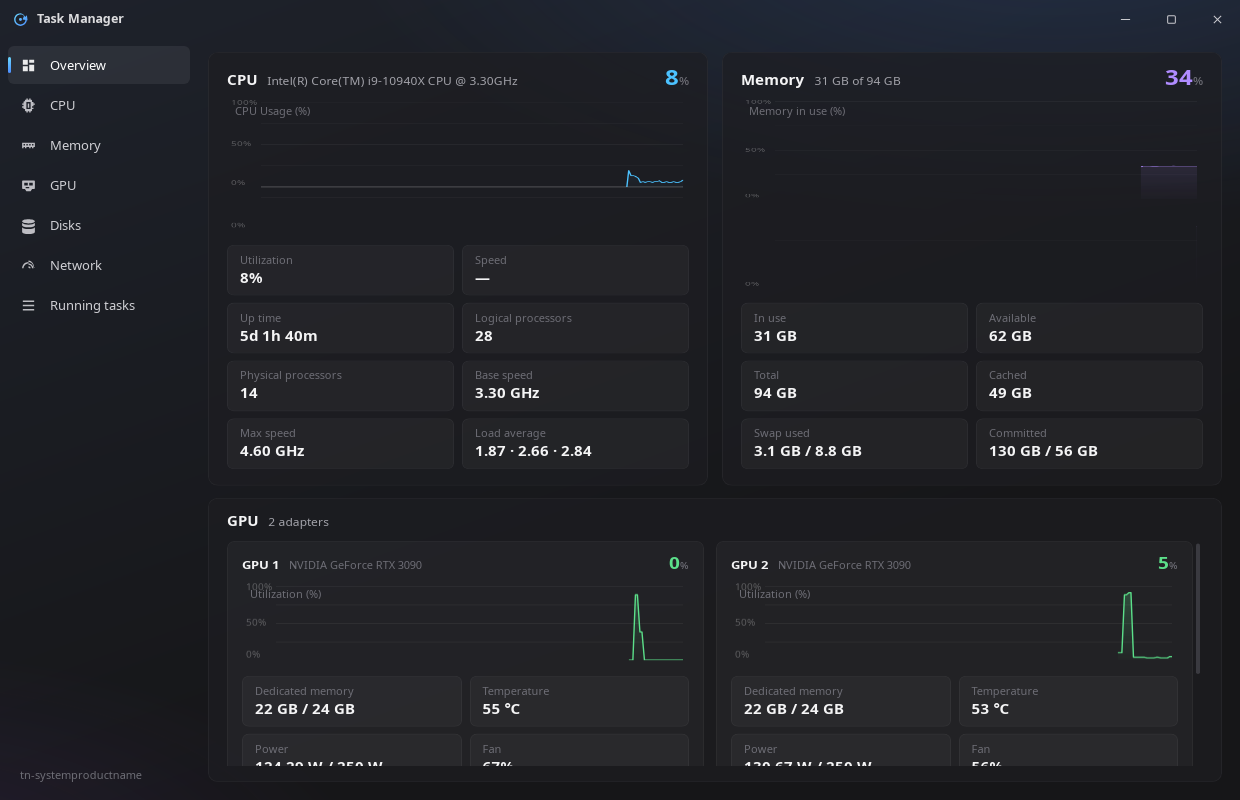
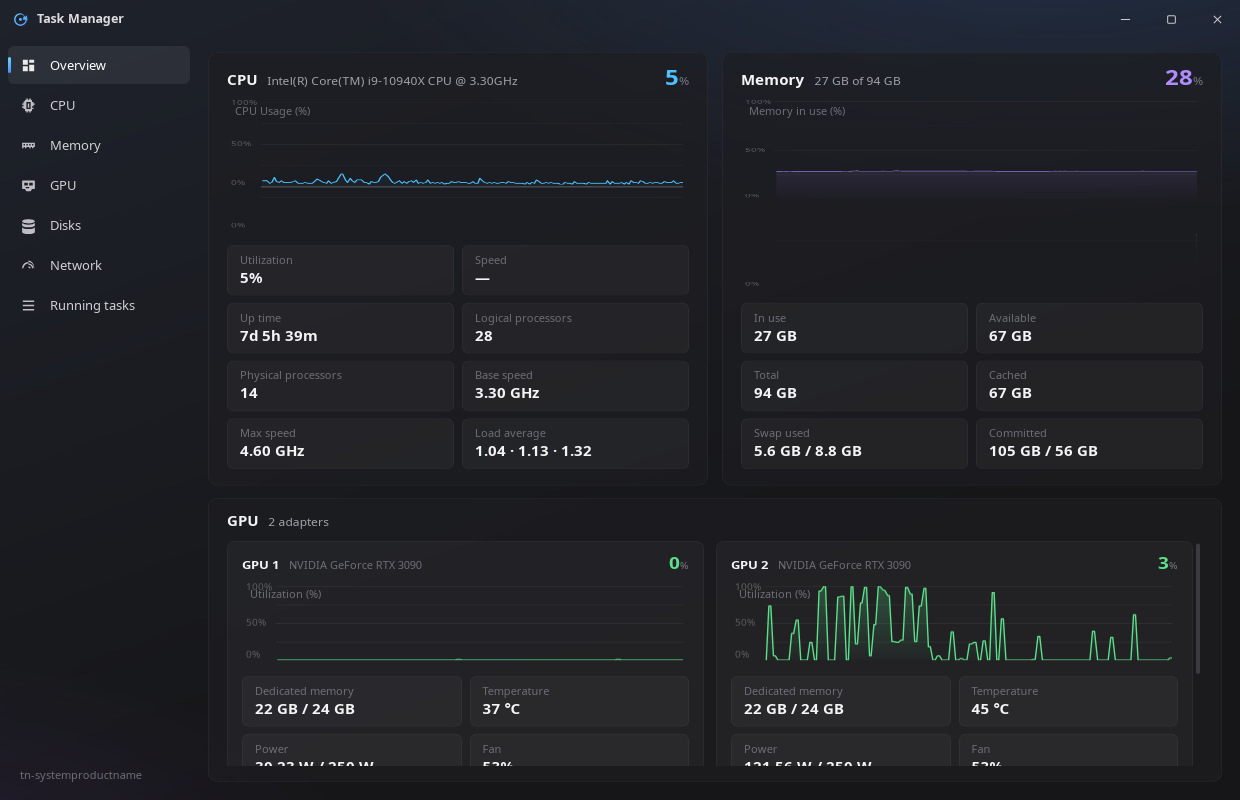
Re-capture README screenshots with full 90 s graph history
- verify harness: 100 s warm-up (full HIST_WINDOW_MS) before shots,
  and the CPU tab is switched to the per-core grid (28 live cells,
  each with its own history) for the screenshot
- all seven screenshots re-captured on the real system (live NVML
  on both 3090s, physical NICs with real traffic, 298-process list)
- README: CPU section text now matches the per-core screenshot

diff --git a/src/verify.rs b/src/verify.rs
@@ -157,8 +157,9 @@ pub fn run_layout(app: &tauri::AppHandle) {
 }
 
 pub fn run(app: &tauri::AppHandle) {
-    // warm-up: let the webview load and the graphs collect data
-    std::thread::sleep(Duration::from_millis(10_000));
+    // warm-up: let the webview load and the graphs collect a FULL 90 s history
+    // window (HIST_WINDOW_MS in app.js) so screenshots show complete graphs
+    std::thread::sleep(Duration::from_millis(100_000));
     let Some(win) = app.get_webview_window("main") else {
         eprintln!("[verify] no main window");
         app.exit(1);
@@ -190,6 +191,18 @@ pub fn run(app: &tauri::AppHandle) {
         );
         let _ = win.eval(&js);
         std::thread::sleep(Duration::from_millis(1500));
+
+        if tab == "cpu" {
+            // screenshot the per-core grid (right-click -> "Show logical cores")
+            let _ = win.eval(
+                "(()=>{ const box=document.getElementById('cpu-graph-box'); if(!box) return 'no-box'; const r=box.getBoundingClientRect(); box.dispatchEvent(new MouseEvent('contextmenu',{bubbles:true,cancelable:true,clientX:r.x+100,clientY:r.y+60})); return 'ctx'; })()",
+            );
+            std::thread::sleep(Duration::from_millis(400));
+            let _ = win.eval(
+                "(()=>{ const m=document.getElementById('cpu-ctx-menu'); if(!m || !m.classList.contains('open')) return 'menu-closed'; const item=m.querySelector('.ctx-item'); if(item){ item.click(); return 'cores-opened'; } return 'no-item'; })()",
+            );
+            std::thread::sleep(Duration::from_millis(1200));
+        }
 
         let dump = format!(
             r#"(() => {{

diff --git a/README.md b/README.md
@@ -13,7 +13,7 @@ The Electron app is left untouched; everything here lives in this folder.
 The window never scrolls: whatever is taller than the content area is scaled
 vertically to fit (see [fitPage fallback](#known-differences--notes)). Every
 screenshot below is a capture of the real running app — 1240×800 window,
-500 ms refresh.
+500 ms refresh, graphs warmed up to their full 90 s history window.
 
 ### Overview
 
@@ -30,12 +30,13 @@ memory, temperature, power and fan.
 
 ![CPU](screenshots/cpu.png)
 
-The dedicated CPU view: a full-width usage history (one tick per 500 ms) plus
-the same stat tiles as the Overview card. **Right-click the graph** for the
-context menu: “Show logical cores” swaps the graph for a grid with one live
-cell per logical core (28 on the i9-10940X this was built on); choosing the
-graph again restores it. The per-core cells and the total are both computed
-from the same per-line `/proc/stat` deltas.
+The dedicated CPU view. By default it shows a full-width usage history (one
+tick per 500 ms, 90 s window) plus the same stat tiles as the Overview card;
+**right-clicking the graph** opens the context menu, and “Show logical cores”
+swaps the graph for the grid shown here — one live cell per logical core (28
+on the i9-10940X this was built on), each with its own usage history.
+Choosing the graph again restores it. The per-core cells and the total are
+both computed from the same per-line `/proc/stat` deltas.
 
 ### Memory
 
@@ -157,11 +158,13 @@ libX11 dev headers (to build `shots/xg`, the X-geometry probe).
 Two env-gated modes are wired into `lib.rs` (neither affects normal use):
 
 - `TM_VERIFY=1 ./target/debug/task-manager`
-  Warms up, then drives the **real UI**: clicks through all seven tabs
-  (Overview, CPU, Memory, GPU, Disk, Net, Tasks), dumps each visible section's
-  text and the page transform to stderr, screenshots each tab, then exercises
-  the end-task flow against a spawned `sleep` child (row → End task → confirm)
-  and checks the kill result. Prints `KILLTEST PASS/FAIL` and exits.
+  Warms up for 100 s (so the graphs collect a full 90 s history window for
+  the screenshots), then drives the **real UI**: clicks through all seven
+  tabs (Overview, CPU — switching it to the per-core grid —, Memory, GPU,
+  Disk, Net, Tasks), dumps each visible section's text and the page transform
+  to stderr, screenshots each tab, then exercises the end-task flow against a
+  spawned `sleep` child (row → End task → confirm) and checks the kill
+  result. Prints `KILLTEST PASS/FAIL` and exits.
 
 - `TM_VERIFY_LAYOUT=1 ./target/debug/task-manager`
   Dumps layout geometry (rects/display of the page, sections, graphs, canvas),
